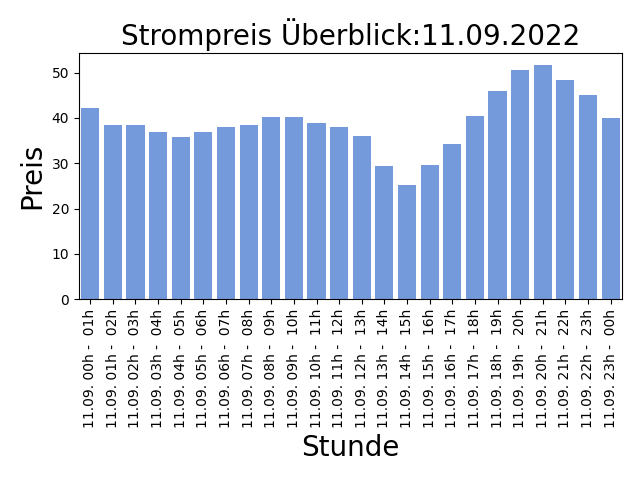
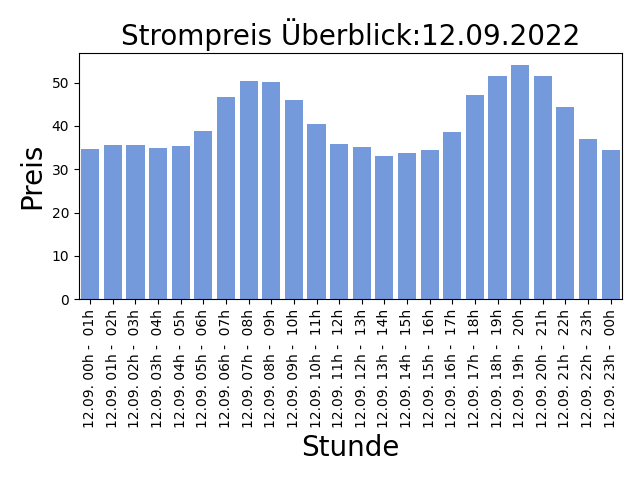
AUTOMATIC UPDATE PRICE LIST: 2022-09-11-14:30:05

diff --git a/README.md b/README.md
@@ -1,5 +1,5 @@
 
-## Strompreise für den 11.09.2022
+## Strompreise für den 12.09.2022
 
 Niedrige Preise deuten auf viel Sonnen und Windenergieerzeugung hin, ein hoher Anteil an erneuerbaren Energien bedeuted weniger CO2 Verbrauch!
 
@@ -7,31 +7,31 @@ Niedrige Preise deuten auf viel Sonnen und Windenergieerzeugung hin, ein hoher A
 
 | Stunde | Preis in Cent/kWh |
 |---|---|
-| 11.09. 00h -  01h | 42.144999999999996 | 
-| 11.09. 01h -  02h | 38.507 | 
-| 11.09. 02h -  03h | 38.506 | 
-| 11.09. 03h -  04h | 36.922000000000004 | 
-| 11.09. 04h -  05h | 35.854 | 
-| 11.09. 05h -  06h | 36.902 | 
-| 11.09. 06h -  07h | 37.902 | 
-| 11.09. 07h -  08h | 38.501 | 
-| 11.09. 08h -  09h | 40.213 | 
-| 11.09. 09h -  10h | 40.213 | 
-| 11.09. 10h -  11h | 38.85 | 
-| 11.09. 11h -  12h | 38.004000000000005 | 
-| 11.09. 12h -  13h | 36.0 | 
-| 11.09. 13h -  14h | 29.5 | 
-| **11.09. 14h -  15h** | **25.18** | 
-| 11.09. 15h -  16h | 29.7 | 
-| 11.09. 16h -  17h | 34.31 | 
-| 11.09. 17h -  18h | 40.432 | 
-| 11.09. 18h -  19h | 45.999 | 
-| 11.09. 19h -  20h | 50.594 | 
-| 11.09. 20h -  21h | 51.720000000000006 | 
-| 11.09. 21h -  22h | 48.494 | 
-| 11.09. 22h -  23h | 45.126 | 
-| 11.09. 23h -  00h | 40.0 | 
+| 12.09. 00h -  01h | 34.708999999999996 | 
+| 12.09. 01h -  02h | 35.548 | 
+| 12.09. 02h -  03h | 35.5 | 
+| 12.09. 03h -  04h | 34.989999999999995 | 
+| 12.09. 04h -  05h | 35.339 | 
+| 12.09. 05h -  06h | 38.905 | 
+| 12.09. 06h -  07h | 46.611000000000004 | 
+| 12.09. 07h -  08h | 50.268 | 
+| 12.09. 08h -  09h | 50.229 | 
+| 12.09. 09h -  10h | 45.897000000000006 | 
+| 12.09. 10h -  11h | 40.501999999999995 | 
+| 12.09. 11h -  12h | 35.935 | 
+| 12.09. 12h -  13h | 35.132999999999996 | 
+| **12.09. 13h -  14h** | **32.991** | 
+| 12.09. 14h -  15h | 33.694 | 
+| 12.09. 15h -  16h | 34.422000000000004 | 
+| 12.09. 16h -  17h | 38.597 | 
+| 12.09. 17h -  18h | 47.171 | 
+| 12.09. 18h -  19h | 51.5 | 
+| 12.09. 19h -  20h | 54.064 | 
+| 12.09. 20h -  21h | 51.564 | 
+| 12.09. 21h -  22h | 44.331 | 
+| 12.09. 22h -  23h | 36.9 | 
+| 12.09. 23h -  00h | 34.474000000000004 | 
 
 Preise der EPEX Spot ® Strombörse (neue Preise werden täglich um 14:00 veröffentlicht für den kompletten nächsten Tag).
 
-letzte Aktualisierung:10.09.2022 14:30
+letzte Aktualisierung:11.09.2022 14:30
